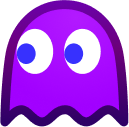
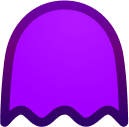
proper grouping

diff --git a/src/pong.ts b/src/pong.ts
@@ -31,7 +31,7 @@ class GameTeam {
 
 export class Padel extends GameObject {
     isMoving: boolean = false;
-    sprite: Sprite = new Sprite({imagePath: "assets/skins/components/body.png", size: new Vector2D(60, 60)});
+    sprite: Sprite = new Sprite({imagePath: "assets/skins/ghost_light.png", size: new Vector2D(60, 60)});
     hitbox: HitBox;
     maximumVelocity: Vector2D;
 
@@ -107,6 +107,26 @@ export class Padel extends GameObject {
             return true;
         }
         this.addChild(new Arrow(this.game));
+
+
+        if (this.team == Team.TEAM1) {
+            this.addChild(new nonParentSprite( this.game, this, new Sprite(
+                {imagePath: "./assets/skins/components/eyes.png", size: new Vector2D(38,24), pos: new Point2D(3, -3)}
+            ), 85))
+    
+            this.addChild(new nonParentSprite( this.game, this, new Sprite(
+                {imagePath: "./assets/skins/components/iris.png", size: new Vector2D(30,12), pos: new Point2D(8, -3)}
+            ), 105))
+        }
+        else {
+            this.addChild(new nonParentSprite( this.game, this, new Sprite(
+                {imagePath: "./assets/skins/components/eyes.png", size: new Vector2D(38,24), pos: new Point2D(-3, -3)}
+            ), 85))
+
+            this.addChild(new nonParentSprite( this.game, this, new Sprite(
+                {imagePath: "./assets/skins/components/iris.png", size: new Vector2D(30,12), pos: new Point2D(-8, -3)}
+            ), 105))
+        }
     }
 }
 
@@ -136,12 +156,19 @@ class nonParentSprite extends GameObject {
         this.sprite = sprite;
 
         this.onUpdate = () => {
-
-            this.truePos = interpolate(this.truePos, target.position, interpolateVal);
-            this.position = this.truePos;
+            console.log(typeof target);
+            this.truePos = interpolate(this.truePos, target.position, interpolateVal * this.game.delta);
 
             return true;
         }
+    }
+
+    getWorldPosition(): Point2D {
+        // console.log("haiahi");
+        return new Point2D(
+            this.truePos.x - this.game.camera.position.x,
+            this.truePos.y - this.game.camera.position.y
+        ).add(this.game.canvasSize.divide(new Vector2D(2,2)));
     }
 }
 
@@ -171,7 +198,7 @@ export class PongGame {
     gameSettings: GameSettings = new GameSettings();
 
     renderFrame() {
-        this.ctx.fillStyle = "#8AC639";
+        this.ctx.fillStyle = "#000000";
         this.ctx.fillRect(0, 0, this.canvas.width, this.canvas.height);
 
         for (const obj of this.gameObjects) {
@@ -243,10 +270,22 @@ export class PongGame {
         return object;
     }
 
+    skins: Sprite[] = [];
+    skinNames: string[] = [
+        "ghost_42",
+        "ghost_blue",
+        "ghost_dark",
+        "ghost_green",
+        "ghost_light",
+        "ghost_purple",
+        "ghost_red",
+        "ghost_yellow",
+    ];
+
     constructor(canvas: HTMLCanvasElement) {
         // this.camera = this.addObject(new Camera(new Point2D(0,0), this)) as Camera;
         this.canvas = canvas;
-        this.canvasSize = new Vector2D(1500, 500).multiply(0.9); // Set desired canvas size here
+        this.canvasSize = new Vector2D(1500, 530).multiply(0.94); // Set desired canvas size here
 
         this.canvas.width = this.canvasSize.x;
         this.canvas.height = this.canvasSize.y;
@@ -254,16 +293,20 @@ export class PongGame {
         this.canvas.style.border = "4px solid #ffffff";
         this.canvas.style.borderRadius = "20px";
 
-
+        for (const skin of this.skinNames) {
+            this.skins.push(new Sprite({
+                size: new Vector2D(60, 60), 
+                imagePath: "./assets/skins/" + skin + ".png"}
+            ));
+        }
         
         let players: Player[] = [
             new Player({name: "player1asjdklasd", profileImage: "assets/profile1.webp"}),
-            new Player({name: "player2", profileImage: "assets/profile2.webp", skin: this.sprites[4]}),
-            new Player({name: "player3"}),
-            new Player({name: "player4"}),
-            new Player({name: "player5"}),
-            new Player({name: "player6"}),
-            // new Player("test"),
+            new Player({name: "player2", profileImage: "assets/profile2.webp", skin: this.skins[5]}),
+            new Player({name: "player3", skin: this.skins[3]}),
+            new Player({name: "player4", skin: this.skins[2]}),
+            new Player({name: "player5", skin: this.skins[5]}),
+            new Player({name: "player6", skin: this.skins[1]}),
         ];
 
         const ctx = this.canvas.getContext('2d')!;
@@ -274,8 +317,7 @@ export class PongGame {
         const offset = 250;
         const distance = 200;
 
-        let bg = new Sprite({imagePath: "./assets/Frame 1 (1).png", size: new Vector2D(2000,500), glow: null});
-        console.log(bg.size);
+        let bg = new Sprite({imagePath: "./assets/maps/map2.png", size: new Vector2D(2700,500), glow: null});
 
         this.addObject(new Image(this, new Point2D(0,0), bg));
         // INITIALIZE TEAMS AND SCORES
@@ -287,13 +329,7 @@ export class PongGame {
                 let padel = new Padel(new Point2D((i*distance*-1) - offset, 0), this, Team.TEAM1, players[i], "s", "w");
                 this.team2.players.push(padel);
                 this.addObject(padel);
-                this.addObject(new nonParentSprite( this, this.team2.players[this.team2.players.length - 1], new Sprite(
-                    {imagePath: "./assets/skins/components/eyes.png", size: new Vector2D(38,24), pos: new Point2D(-3, -3)}
-                ), 1.3))
 
-                this.addObject(new nonParentSprite( this, padel, new Sprite(
-                    {imagePath: "./assets/skins/components/iris.png", size: new Vector2D(30,12), pos: new Point2D(-8, -3)}
-                ), 1.6))
             }
             else {
                 let padel = new Padel(new Point2D(((i-1) * distance) + offset, 0), this, Team.TEAM2, players[i]);
@@ -301,13 +337,7 @@ export class PongGame {
                 this.team1.players.push(padel);
                 this.addObject(padel);
 
-                this.addObject(new nonParentSprite( this, padel, new Sprite(
-                    {imagePath: "./assets/skins/components/eyes.png", size: new Vector2D(38,24), pos: new Point2D(-3, -3)}
-                ), 1.3))
 
-                this.addObject(new nonParentSprite( this, padel, new Sprite(
-                    {imagePath: "./assets/skins/components/iris.png", size: new Vector2D(30,12), pos: new Point2D(-8, -3)}
-                ), 1.6))
             }
         }
 

diff --git a/src/GameUtils.ts b/src/GameUtils.ts
@@ -127,6 +127,10 @@ export class GameObject {
         const pos = this.getWorldPosition().subtract(this.sprite.size.divide(new Vector2D(2, 2)));
 
         this.sprite!.drawImg(this.ctx, pos.add(this.sprite!.pos.toVector2D()), this.sprite.size, this.sprite.rotation);
+        for (const child of this.children) {
+            child.Draw();
+        }
+        
     }
 
     previewHitbox() {
@@ -192,6 +196,10 @@ export class GameObject {
         }
         if (this.onUpdate !== undefined) {
             this.onUpdate();
+        }
+        for (const child of this.children) {
+            if (child.onUpdate)
+                child.onUpdate();
         }
     }
 }
@@ -279,6 +287,11 @@ export class Sprite {
     glow: Glow| null = null;
     pos: Point2D = new Point2D(0,0);
 
+    config(params: Partial<Sprite> ): Sprite {
+        Object.assign(this, params);
+        return this;
+    }
+    
     constructor(params: Partial<Sprite> = {}) {
         Object.assign(this, params);
         const diameter = Math.max(this.size.x, this.size.y);

diff --git a/src/objects/Camera.ts b/src/objects/Camera.ts
@@ -21,7 +21,6 @@ export class Camera extends GameObject {
                 this.shakeValue = new Vector2D(0,0);
             }
 
-            console.log((new Vector2D(65, 65)).multiply(this.game.delta));
             // if (this.shakeValue.x > 60) {
             //     for (const filter of this.game.filter) {
             //         filter.sprite!.opacity = 1;
